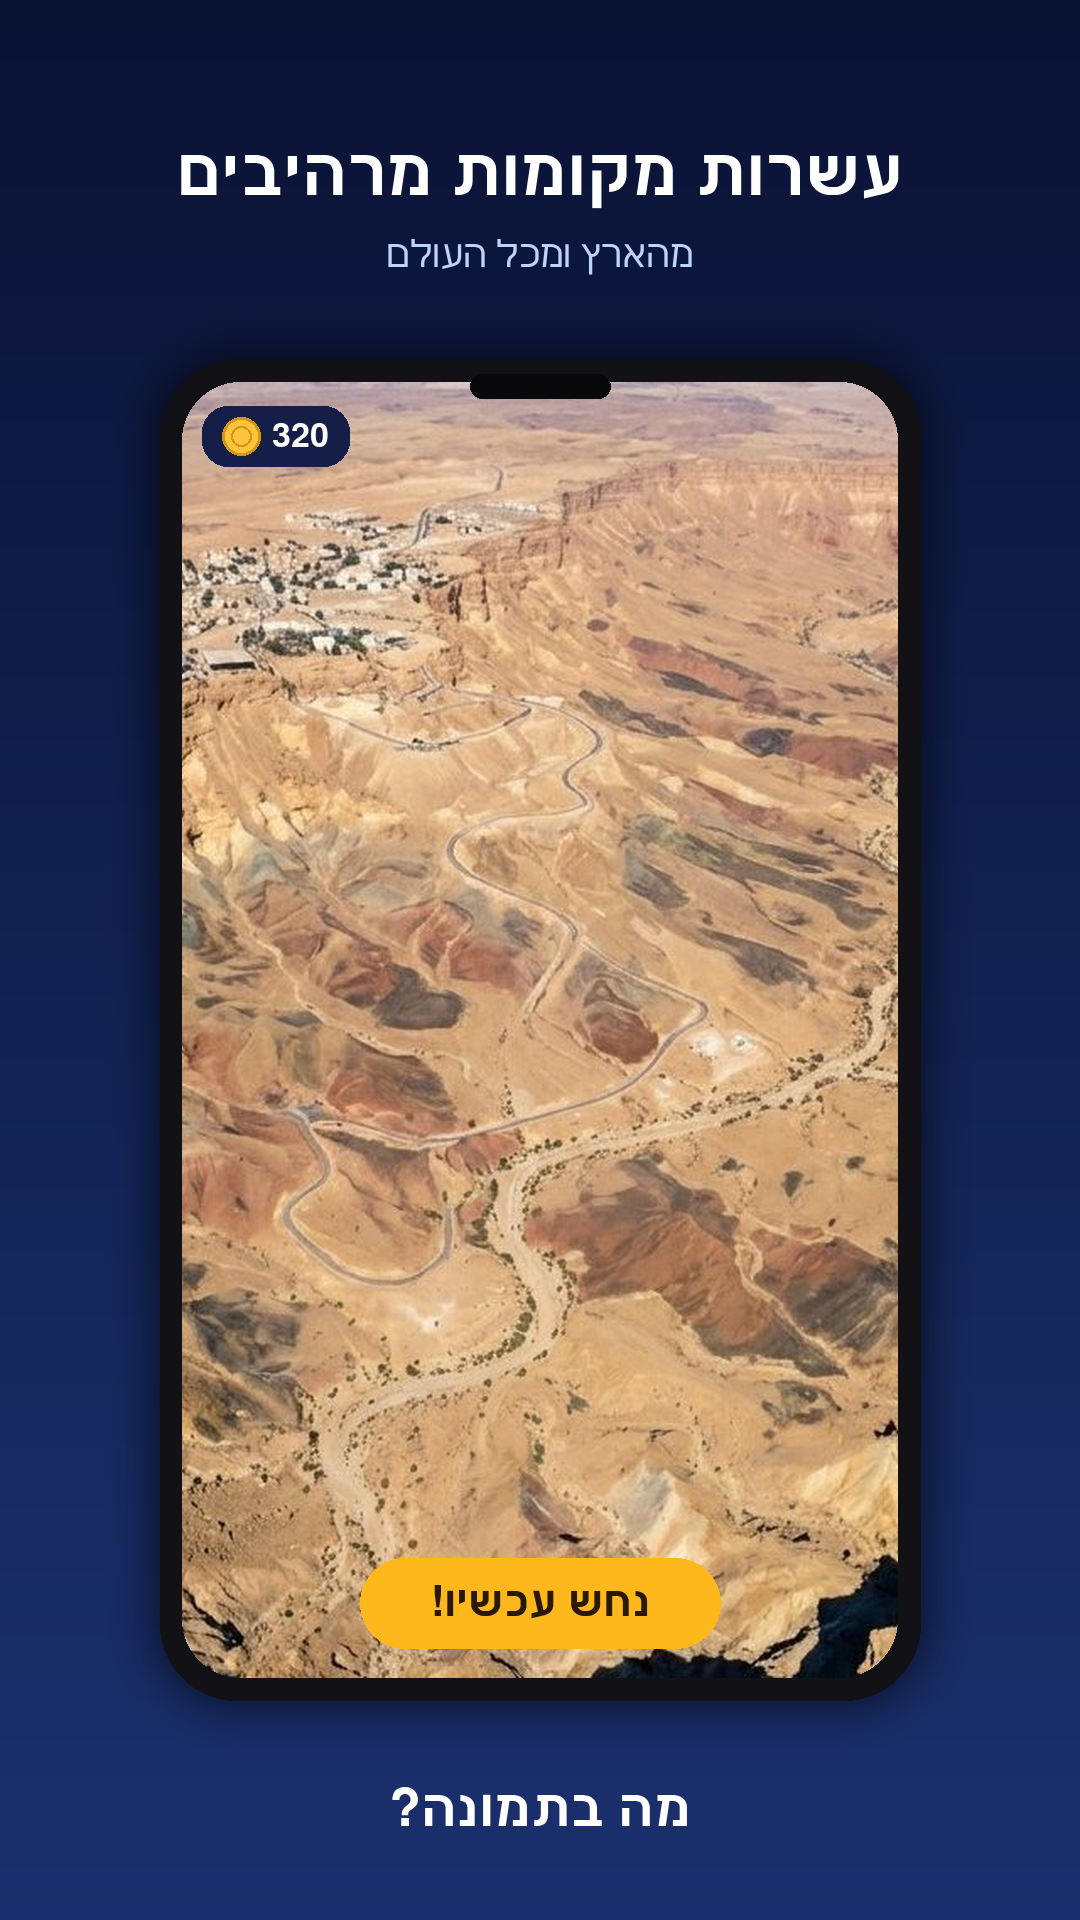
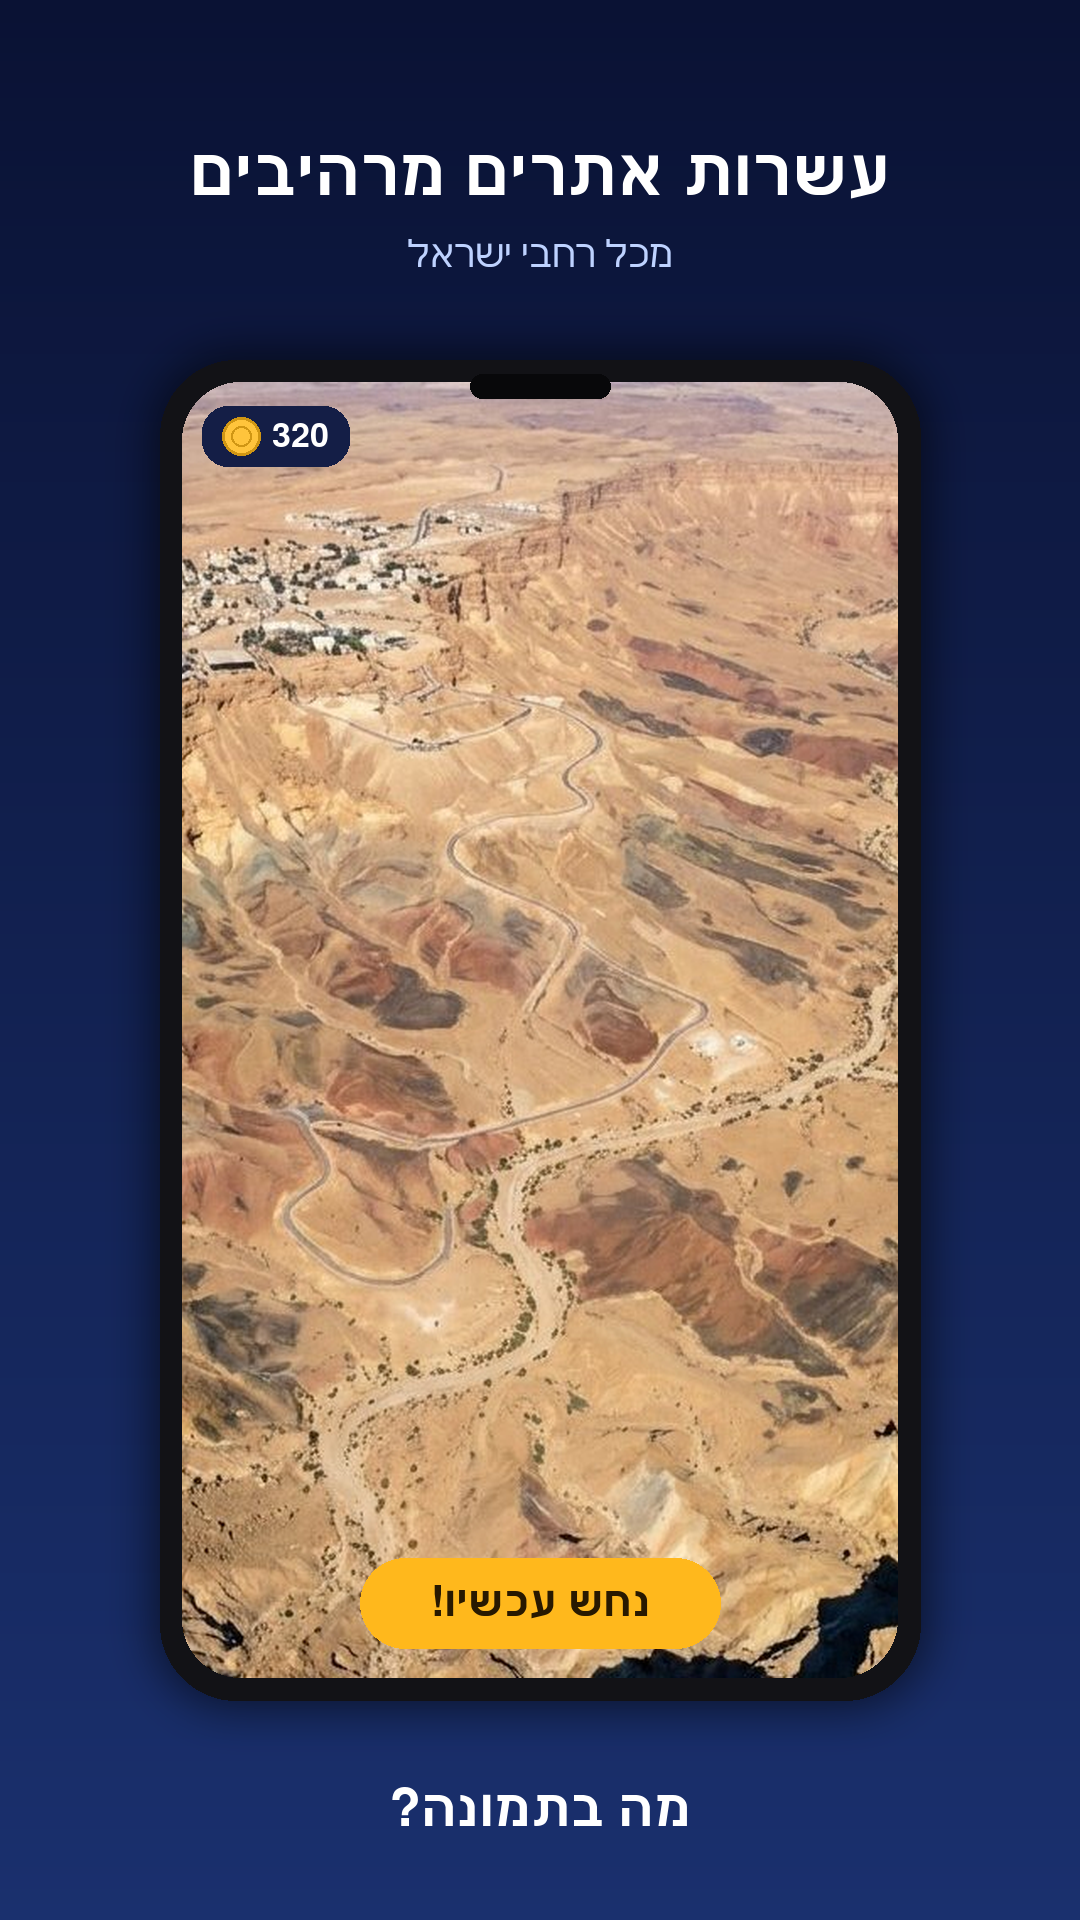
content: tailor Play Store copy to the shipped app
The catalogue is now 53 active Israeli locations and matchmaking pairs
real players (bots as fallback), so the listing should say so:

- short/full descriptions: Israel-focused ("מכל רחבי ישראל", "מהכותל ועד
  מכתש רמון"), mention real-player matches, refreshed feature bullets
- screenshot captions regenerated to match (real players / all-Israel)
- regenerate google-play-assets/ + google-play-assets.zip

https://claude.ai/code/session_012camuJM1Ghz5rPkwooyY84

Changed region(s): [[0.1528, 0.0625, 0.8556, 0.1562]]

diff --git a/build_play_assets.py b/build_play_assets.py
@@ -139,9 +139,9 @@ print("feature graphic:", Image.open(fg_path).size)
 SW, SH = 1080, 1920
 specs = [
     ("western_wall.jpg", "נחשו את המקום!", "המשבצות נחשפות אחת-אחת", 0.45),
-    ("dead_sea.jpg", "מי שמזהה ראשון — מנצח!", "ככל שתנחשו מוקדם, תרוויחו יותר", 0.20),
+    ("dead_sea.jpg", "מי שמזהה ראשון — מנצח!", "מול שחקנים אמיתיים ובוטים", 0.20),
     ("masada.jpg", "הרוויחו מטבעות וטפסו בדרגות", "7 דרגות: מ\"עיוור\" ועד \"אגדה\"", 0.0),
-    ("ramon_crater.jpg", "עשרות מקומות מרהיבים", "מהארץ ומכל העולם", 0.0),
+    ("ramon_crater.jpg", "עשרות אתרים מרהיבים", "מכל רחבי ישראל", 0.0),
 ]
 
 def find_img(name):

diff --git a/docs/GOOGLE_PLAY_LISTING.md b/docs/GOOGLE_PLAY_LISTING.md
@@ -14,22 +14,22 @@
 
 **תיאור קצר** (עד 80 תווים):
 ```
-חשפו את התמונה משבצת-משבצת, נחשו את המקום ראשונים, וטפסו בדרגות!
+חשפו את התמונה משבצת-משבצת, נחשו את המקום בישראל ראשונים, וטפסו בדרגות!
 ```
 
 **תיאור מלא** (עד 4000 תווים):
 ```
-🗺️ מה בתמונה? — משחק הניחושים שגורם לכם לחשוב מהר!
+🗺️ מה בתמונה? — משחק הניחושים הישראלי שגורם לכם לחשוב מהר!
 
-תמונה של מקום מתחבאת מאחורי לוח משבצות. המשבצות נחשפות אחת-אחת — ומי שמזהה את המקום ראשון, מנצח. ככל שתנחשו מוקדם יותר, כך תרוויחו יותר מטבעות וניקוד. אבל זהירות: ניחוש שגוי עולה לכם!
+תמונה של מקום בישראל מתחבאת מאחורי לוח משבצות. המשבצות נחשפות אחת-אחת — ומי שמזהה את המקום ראשון, מנצח. ככל שתנחשו מוקדם יותר, כך תרוויחו יותר מטבעות וניקוד. אבל זהירות: ניחוש שגוי עולה לכם!
 
 ✨ מה מחכה לכם:
-• עשרות מקומות ואתרים מרהיבים מרחבי הארץ והעולם
-• משחק מהיר לבד מול בוטים — או בחדרים פרטיים מול חברים
+• עשרות אתרים ונופים מרהיבים מכל רחבי ישראל — מהכותל ועד מכתש רמון
+• משחק מהיר מול שחקנים אמיתיים ובוטים — או בחדרים פרטיים מול חברים
 • כלכלה ממכרת: מטבעות, ארנק, וחנות כרטיסים מיוחדים
 • כרטיסי פעולה: חסימת ניחוש, החשכת לוח ועוד — שנפתחים ככל שתתקדמו
 • 7 דרגות שחקן — מ"עיוור" ועד "אגדה"
-• מפת המקומות שגיליתם
+• מפת המקומות שגיליתם ברחבי הארץ
 • פרס יומי ובונוס רצף
 
 🎯 קל ללמוד, קשה להניח מהיד. כמה מהר תזהו את המקום?